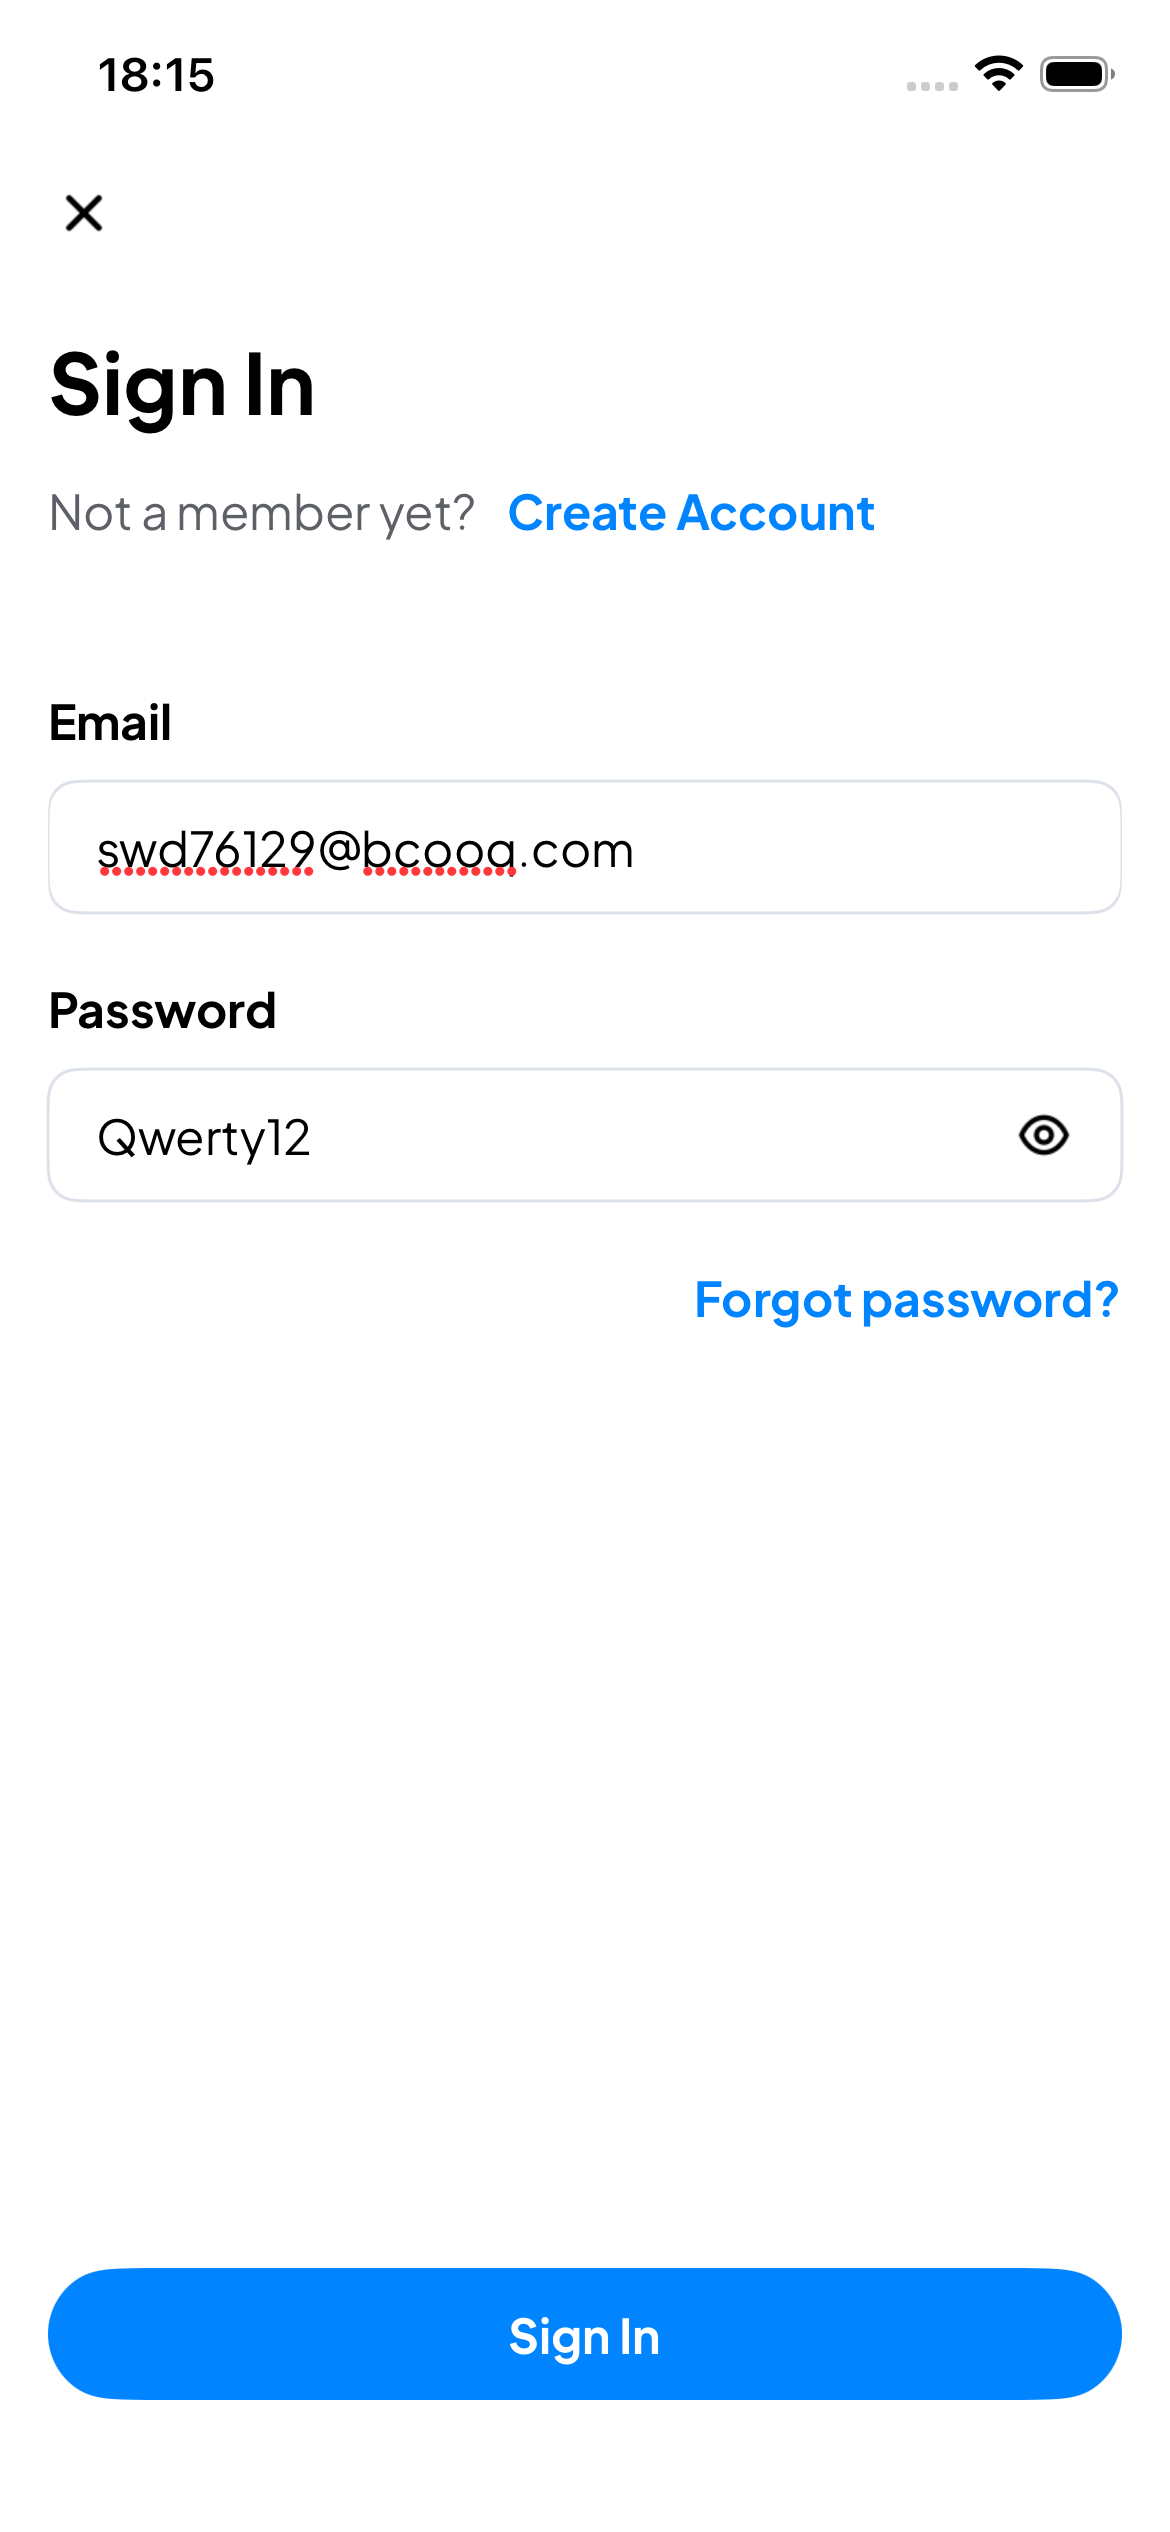
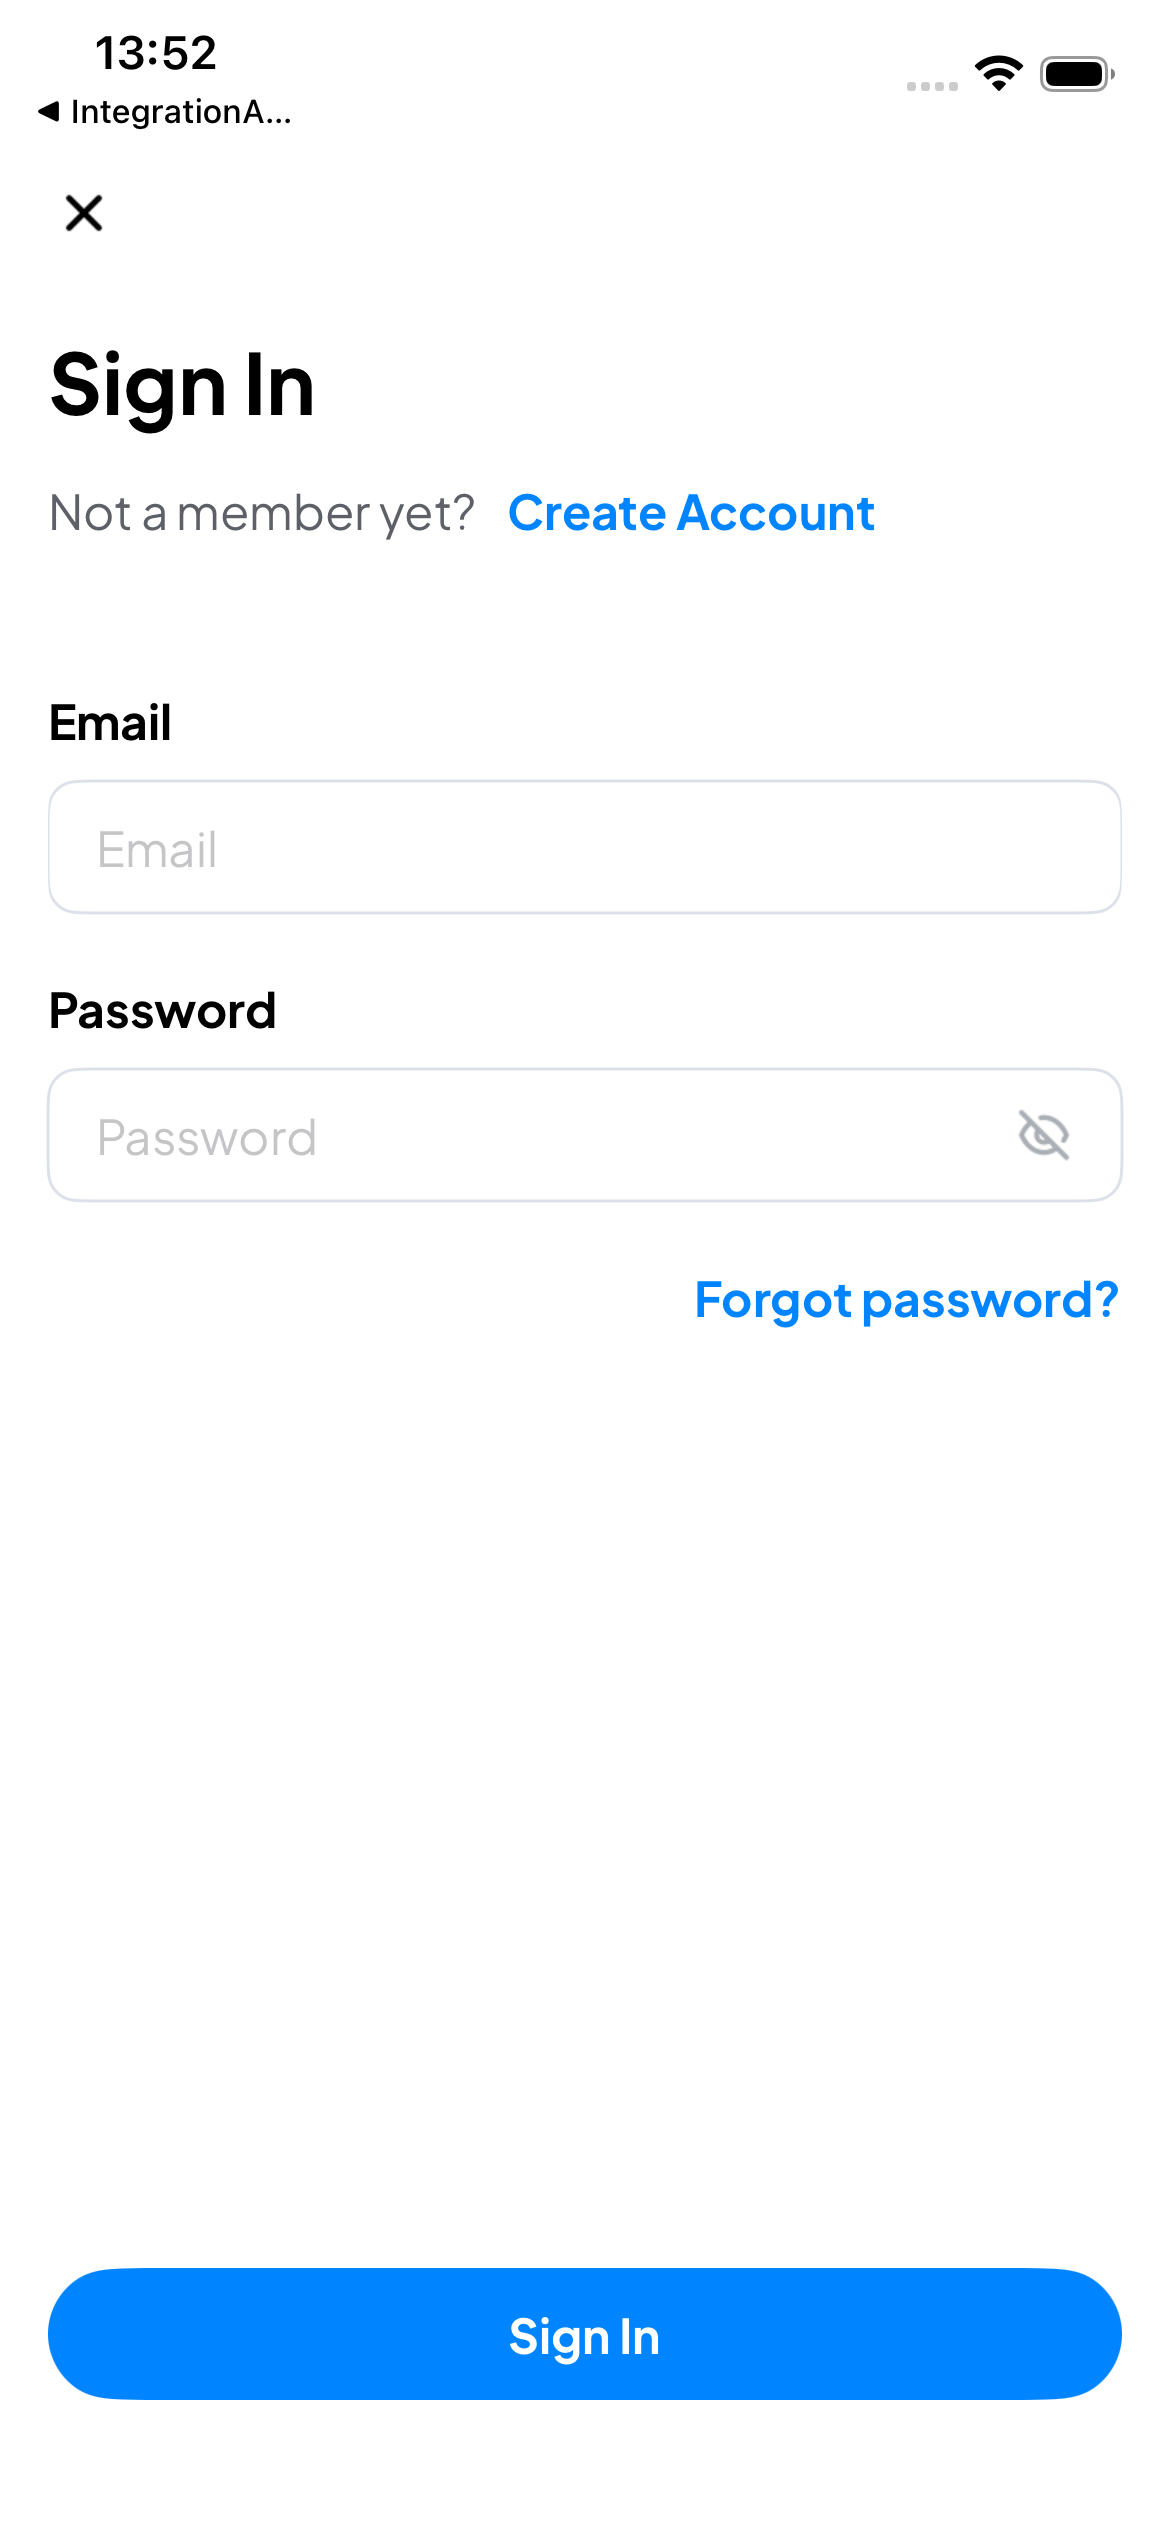
sharing

diff --git a/screens/SharingScreen.js b/screens/SharingScreen.js
@@ -2,95 +2,95 @@
 import BaseScreen from './BaseScreen.js';
 
 export default class SharingScreen extends BaseScreen {
-  // Нижняя вкладка "Sharing"
-  get sharingTab() {
-    // <XCUIElementTypeButton name="Sharing" .../>
-    return this.driver.$('~Sharing');
-  }
-
-  // Иконка поиска в правом верхнем углу
-  get searchIcon() {
-    // <XCUIElementTypeImage name="newSearch" .../>
-    return this.driver.$('~newSearch');
-  }
-
-  // Кнопки пользователей в блоке "SHARED USERS"
-  // name="..., Last flight XXd ago"
-  async sharedUserButtons() {
-    return this.driver.$$(
-      "//XCUIElementTypeButton[contains(@name, 'Last flight')]"
-    );
-  }
-
-  // Открыть вкладку Sharing через нижний таб-бар
-  async openSharing() {
-    await this.click(this.sharingTab);
-  }
-
-  // Поиск пользователя по имени (пока максимально безопасный, без падений)
-  async findUserByName(name) {
-    await this.openSharing();
-
-    // Пробуем нажать на иконку поиска
-    try {
-      await this.click(this.searchIcon);
-      await this.driver.pause(500);
-    } catch (e) {
-      console.log('findUserByName: searchIcon не найден, пропускаем поиск');
-      return;
+    // Нижняя вкладка "Sharing"
+    get sharingTab() {
+        // <XCUIElementTypeButton name="Sharing" .../>
+        return this.driver.$('~Sharing');
     }
 
-    // На текущем XML поля ввода нет — пробуем угадать его по типу
-    const candidates = await this.driver.$$(
-      '//XCUIElementTypeSearchField | //XCUIElementTypeTextField'
-    );
-
-    if (candidates.length === 0) {
-      console.log('findUserByName: search field не найден на экране');
-      return;
+    // Иконка поиска в правом верхнем углу
+    get searchIcon() {
+        // <XCUIElementTypeImage name="newSearch" .../>
+        return this.driver.$('~newSearch');
     }
 
-    const field = candidates[0];
-    try {
-      await field.clearValue();
-    } catch (_) {
-      // если clearValue не умеет — просто затираем setValue
+    // Кнопки пользователей в блоке "SHARED USERS"
+    // name="..., Last flight XXd ago"
+    async sharedUserButtons() {
+        return this.driver.$$(
+            "//XCUIElementTypeButton[contains(@name, 'Last flight')]"
+        );
     }
-    await field.setValue(name);
-    await this.driver.pause(500);
-  }
 
-  // Открыть по очереди карточку каждого юзера и вернуться назад
-  async openEachUserStatsAndBack() {
-    await this.openSharing();
-
-    const buttons = await this.sharedUserButtons();
-    const count = buttons.length;
-    console.log(`openEachUserStatsAndBack: найдено ${count} пользователей`);
-
-    // важный момент: после переходов старые элементы могут стать "stale",
-    // поэтому в цикле берём элемент каждый раз по XPath с индексом
-    for (let i = 1; i <= count; i++) {
-      const btn = await this.driver.$(
-        `(//XCUIElementTypeButton[contains(@name, 'Last flight')])[${i}]`
-      );
-
-      try {
-        await btn.click();
-        await this.driver.pause(700);
-      } catch (e) {
-        console.log(`openEachUserStatsAndBack: не смогли открыть пользователя #${i}`);
-      }
-
-      // Возвращаемся назад через таб "Sharing" (он есть и на списке, и, скорее всего, на деталях)
-      try {
+    // Открыть вкладку Sharing через нижний таб-бар
+    async openSharing() {
         await this.click(this.sharingTab);
-        await this.driver.pause(500);
-      } catch (e) {
-        console.log('openEachUserStatsAndBack: не смогли нажать sharingTab для возврата');
-      }
     }
 
-    return count;
-  }
+    // Поиск пользователя по имени (пока максимально безопасный, без падений)
+    async findUserByName(name) {
+        await this.openSharing();
+
+        // Пробуем нажать на иконку поиска
+        try {
+            await this.click(this.searchIcon);
+            await this.driver.pause(500);
+        } catch (e) {
+            console.log('findUserByName: searchIcon не найден, пропускаем поиск');
+            return;
+        }
+
+        // На текущем XML поля ввода нет — пробуем угадать его по типу
+        const candidates = await this.driver.$$(
+            '//XCUIElementTypeSearchField | //XCUIElementTypeTextField'
+        );
+
+        if (candidates.length === 0) {
+            console.log('findUserByName: search field не найден на экране');
+            return;
+        }
+
+        const field = candidates[0];
+        try {
+            await field.clearValue();
+        } catch (_) {
+            // если clearValue не умеет — просто затираем setValue
+        }
+        await field.setValue(name);
+        await this.driver.pause(500);
+    }
+
+    // Открыть по очереди карточку каждого юзера и вернуться назад
+    async openEachUserStatsAndBack() {
+        await this.openSharing();
+
+        const buttons = await this.sharedUserButtons();
+        const count = buttons.length;
+        console.log(`openEachUserStatsAndBack: найдено ${count} пользователей`);
+
+        // важный момент: после переходов старые элементы могут стать "stale",
+        // поэтому в цикле берём элемент каждый раз по XPath с индексом
+        for (let i = 1; i <= count; i++) {
+            const btn = await this.driver.$(
+                `(//XCUIElementTypeButton[contains(@name, 'Last flight')])[${i}]`
+            );
+
+            try {
+                await btn.click();
+                await this.driver.pause(700);
+            } catch (e) {
+                console.log(`openEachUserStatsAndBack: не смогли открыть пользователя #${i}`);
+            }
+
+            // Возвращаемся назад через таб "Sharing" (он есть и на списке, и, скорее всего, на деталях)
+            try {
+                await this.click(this.sharingTab);
+                await this.driver.pause(500);
+            } catch (e) {
+                console.log('openEachUserStatsAndBack: не смогли нажать sharingTab для возврата');
+            }
+        }
+
+        return count;
+    }
 }

diff --git a/screens/UserProfileScreen.js b/screens/UserProfileScreen.js
@@ -1,0 +1,78 @@
+// screens/UserProfileScreen.js
+import BaseScreen from './BaseScreen.js';
+
+export default class UserProfileScreen extends BaseScreen {
+    constructor(driver) {
+        super(driver);
+        this.driver = driver;
+    }
+
+    // --- Заголовок с именем пользователя ---
+    get userName() {
+        return this.driver.$('//XCUIElementTypeStaticText[@value="Vlad Koshman"]');
+    }
+
+    // --- Информация о последнем полёте ---
+    get lastFlightInfo() {
+        return this.driver.$('//XCUIElementTypeStaticText[contains(@value,"Last flight")]');
+    }
+
+    // --- Кнопки в верхней части ---
+    get logbookButton() {
+        return this.driver.$('//XCUIElementTypeButton[@name="logbookLinear"]');
+    }
+
+    get newSearchButton() {
+        return this.driver.$('//XCUIElementTypeImage[@name="newSearch"]');
+    }
+
+    get leftArrowButton() {
+        return this.driver.$('//XCUIElementTypeButton[@name="leftArrowChevron"]');
+    }
+
+    // --- Основные вкладки пользователя ---
+    get flightsTab() {
+        return this.driver.$('//XCUIElementTypeButton[@name="Flights"]');
+    }
+
+    get maneuversTab() {
+        return this.driver.$('//XCUIElementTypeButton[@name="Maneuvers"]');
+    }
+
+    // --- Прочие элементы полётов (первый блок) ---
+    get firstFlightLocation() {
+        return this.driver.$('//XCUIElementTypeStaticText[@value="Near Lehigh Acres"]');
+    }
+
+    get firstFlightAircraft() {
+        return this.driver.$('//XCUIElementTypeStaticText[contains(@value,"0FL0")]');
+    }
+
+    get firstFlightDuration() {
+        return this.driver.$('//XCUIElementTypeStaticText[contains(@value,"h")]');
+    }
+
+    // --- Кнопка вопросика (неактивная/дополнительно) ---
+    get questionIcon() {
+        return this.driver.$('//XCUIElementTypeButton[@name="question-icon"]');
+    }
+
+    // --- Кнопки для взаимодействия с клавиатурой (если нужно) ---
+    get nextKeyboardButton() {
+        return this.driver.$('//XCUIElementTypeButton[@name="Next keyboard"]');
+    }
+
+    get dictationButton() {
+        return this.driver.$('//XCUIElementTypeButton[@name="dictation"]');
+    }
+
+    // --- Пример действия: открытие вкладки Flights ---
+    async openFlightsTab() {
+        await (await this.flightsTab).click();
+    }
+
+    // --- Пример действия: закрытие профиля через стрелку назад ---
+    async goBack() {
+        await (await this.leftArrowButton).click();
+    }
+}

diff --git a/tests/sharing.test.js b/tests/sharing.test.js
@@ -5,29 +5,35 @@ let driver;
 let sharing;
 
 beforeAll(async () => {
-  driver = await getDriver();
-  sharing = new SharingScreen(driver);
+    driver = await getDriver();
+    sharing = new SharingScreen(driver);
 });
 
 afterAll(async () => {
-  await quitDriver();
+    await quitDriver();
 });
 
 describe('Sharing page', () => {
-  test('find user (fill search)', async () => {
-    // Метод сам откроет вкладку Sharing и попробует нажать на иконку поиска.
-    // Если поля поиска нет — просто не упадёт.
-    await sharing.findUserByName('Vlad K');
+    test('find user (fill search)', async () => {
+        await sharing.findUserByName('Vlad K');
+        expect(true).toBeTruthy();
+    });
 
-    // Просто smoke-проверка, что до сюда дошли без ошибок
-    expect(true).toBeTruthy();
-  });
+    test('check users (open each "Last flight" card and interact via UserProfileScreen)', async () => {
+        const count = await sharing.openEachUserStatsAndInteract(async (userProfile) => {
+            // Пример взаимодействия с UserProfileScreen
+            const name = await (await userProfile.userName).getText();
+            console.log(`Открыт профиль пользователя: ${name}`);
 
-  test('check users (open each "Last flight" card and back)', async () => {
-    const opened = await sharing.openEachUserStatsAndBack();
+            // Открываем вкладку Flights
+            await userProfile.openFlightsTab();
+            await driver.pause(500);
 
-    // В реальном UI ожидаем >=1, но чтобы тест не падал на пустых данных,
-    // оставляем мягкую проверку ≥ 0
-    expect(opened).toBeGreaterThanOrEqual(0);
-  });
+            // Возврат на основной профиль
+            await userProfile.goBack();
+            await driver.pause(500);
+        });
+
+        expect(count).toBeGreaterThanOrEqual(0);
+    });
 });

diff --git a/screens/LoginScreen.js b/screens/LoginScreen.js
@@ -12,21 +12,21 @@ export default class LoginScreen extends BaseScreen {
     return this.driver.$('//XCUIElementTypeButton[@name="Sign In"]');
   }
 
-  // Поле Email в форме логина
-  get emailField() {
-    return this.driver.$(
-      '//XCUIElementTypeTextField[@placeholderValue="Email"]'
-    );
-  }
+    // Поле Email в форме логина
+    get emailField() {
+        return this.driver.$(
+            '//XCUIElementTypeTextField[@value="Email"]'
+        );
+    }
+    // Поле Password в форме логина
+    get passwordField() {
+        return this.driver.$(
+            '//XCUIElementTypeSecureTextField[@value="Password"]'
+        );
+    }
 
-  // Поле Password в форме логина
-  get passwordField() {
-    return this.driver.$(
-      '//XCUIElementTypeSecureTextField[@placeholderValue="Password"]'
-    );
-  }
 
-  // Кнопка "Sign In" в форме логина
+    // Кнопка "Sign In" в форме логина
   get formSignInButton() {
     // В макете кнопка называется так же "Sign In", используем тот же локатор
     return this.driver.$('//XCUIElementTypeButton[@name="Sign In"]');

diff --git a/config/capabilities.sim.js b/config/capabilities.sim.js
@@ -1,8 +1,8 @@
 export const iosSimCaps = {
   platformName: 'iOS',
   'appium:deviceName': 'iPhone 16e',
-  'appium:platformVersion': '26.1',
+  'appium:platformVersion': '26.2',
   'appium:automationName': 'XCUITest',
-  'appium:app': '/Users/accountant/Downloads/Telegram Desktop/MasterPilot.app',
+  'appium:app': '/Users/macbookdima/Downloads/MasterPilot.app',
   'appium:noReset': true,
 };
